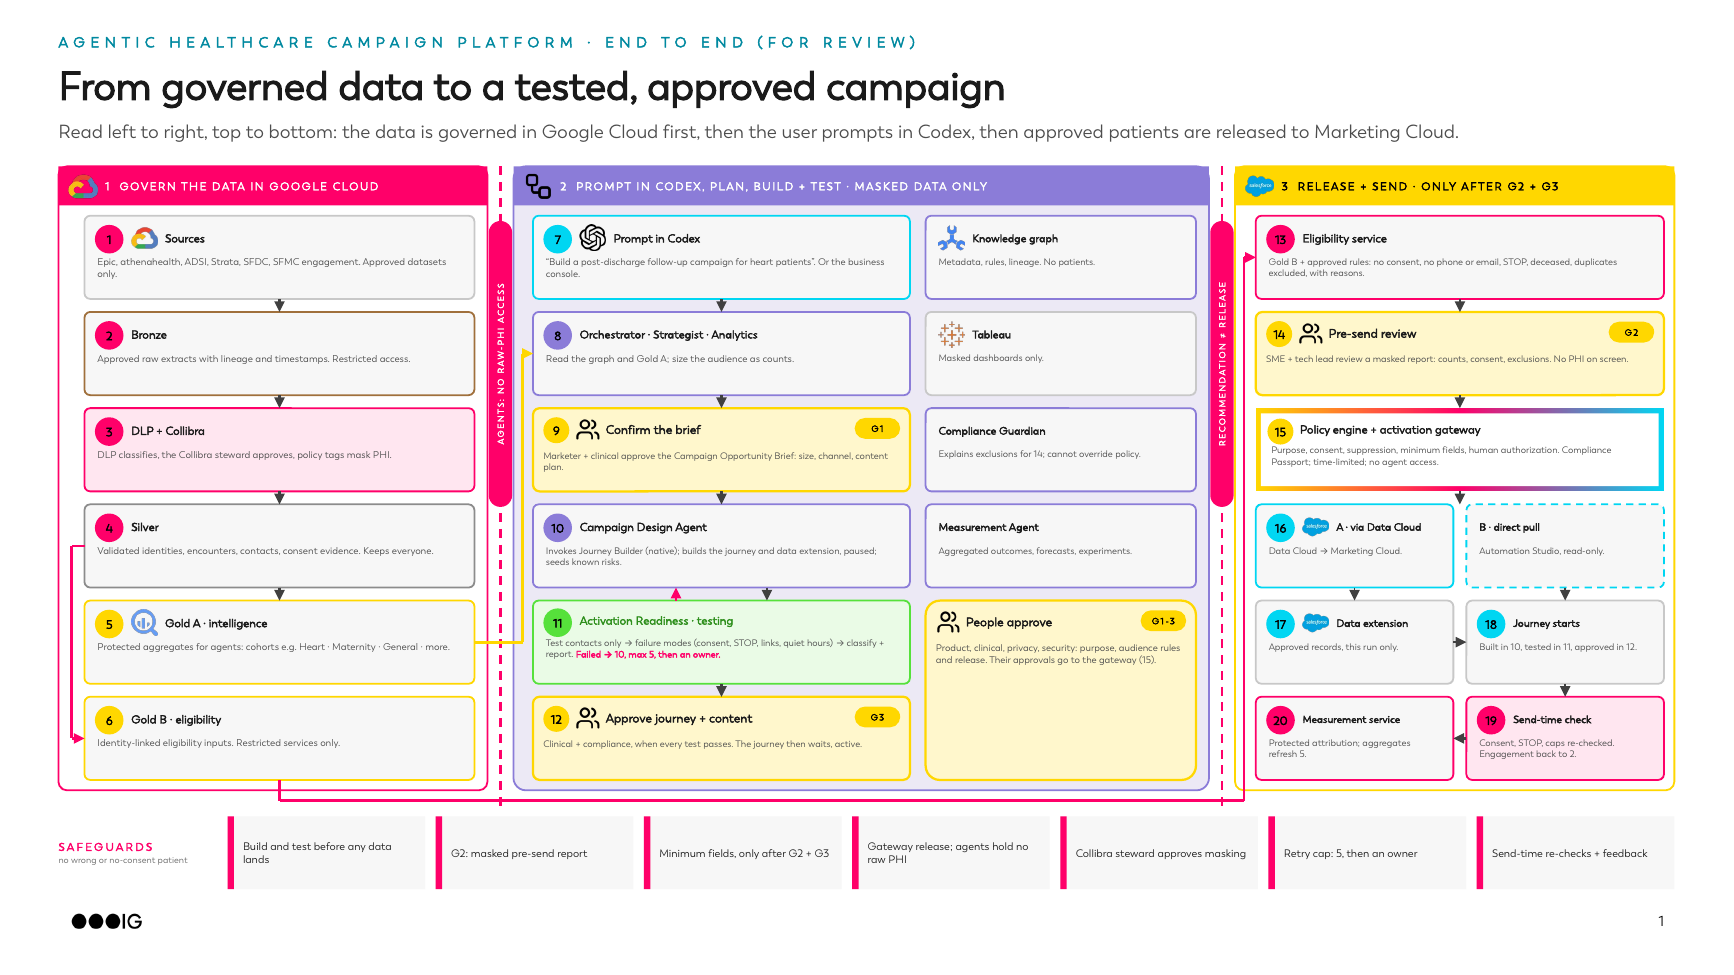
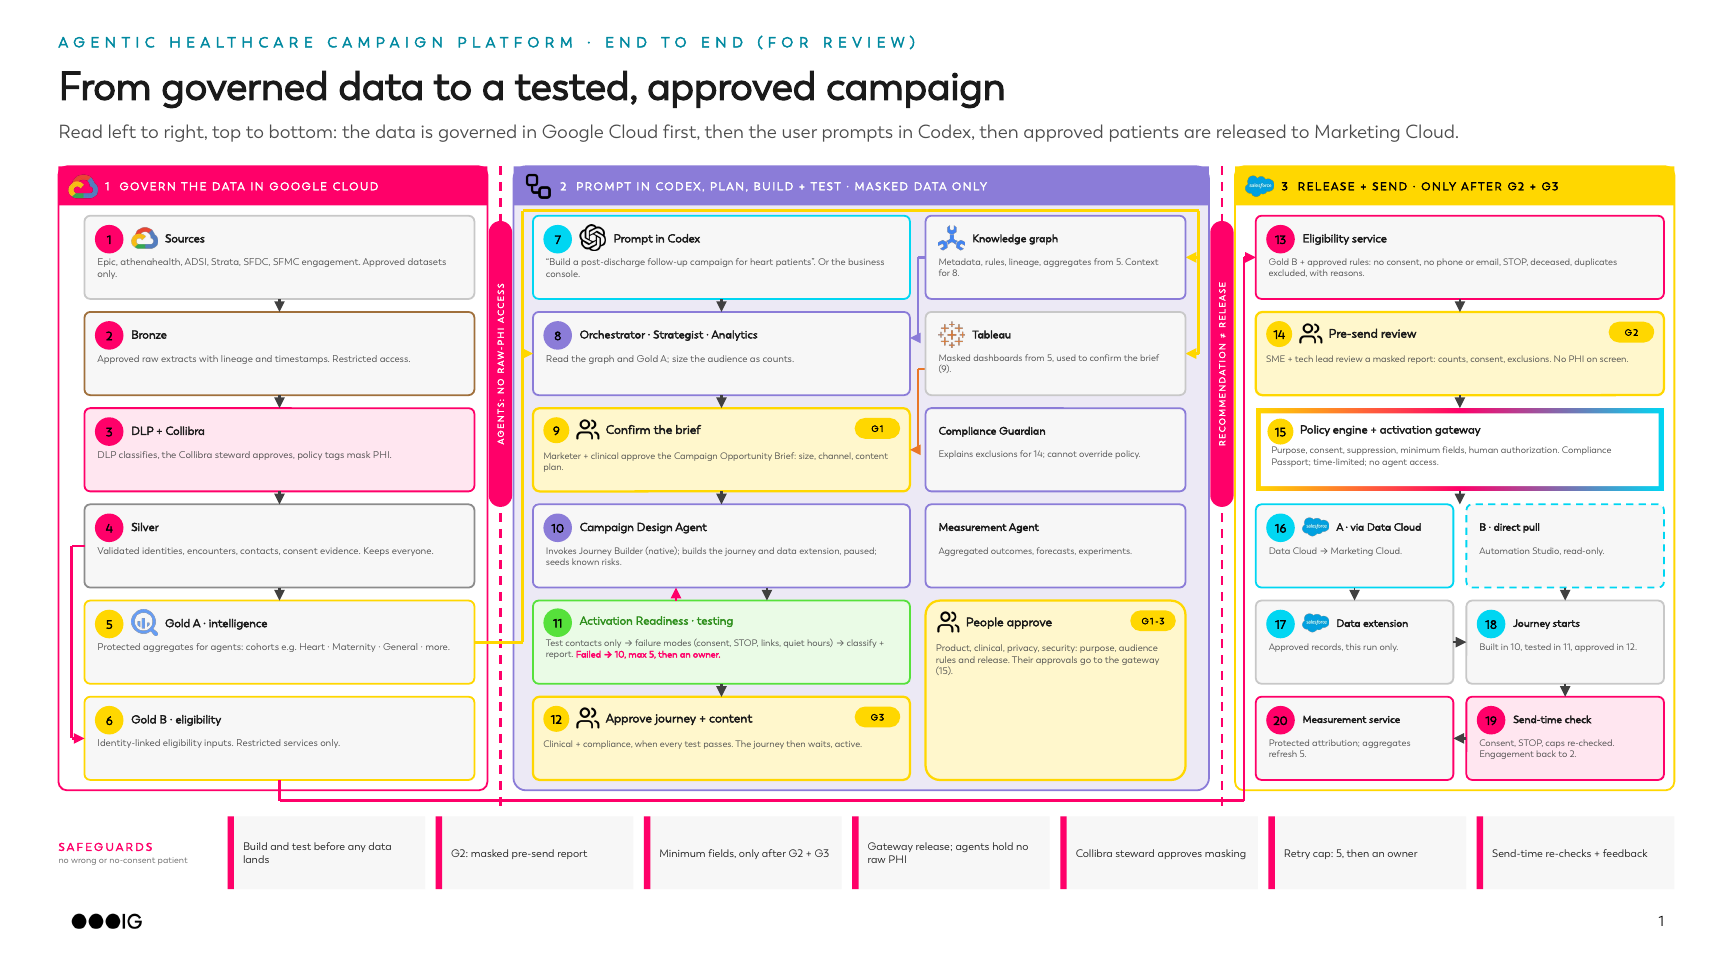
Combined review image: connect the knowledge graph and Tableau
Gold A feeds the graph and Tableau; the graph gives the agents (8) their
context; Tableau's masked dashboards support confirming the brief (9).
Both themes updated; the deck is unchanged.

Claude-Session: https://claude.ai/code/session_01Hf94kqMzSofkkrQm7kpNba

diff --git a/poc/data_harness/combined_flow.py b/poc/data_harness/combined_flow.py
@@ -73,7 +73,7 @@ def build(prs, layout):
     path(cv, [(gx, mid(3)), (0.55, mid(3)), (0.55, mid(5)), (gx, mid(5))], MAGENTA, 1.25)
     # ---------------------------------------------------------------- 2 prompt, plan, build + test
     mx, mw = 4.1, 2.9
-    sx, sw = 7.12, 2.08
+    sx, sw = 7.12, 2.0
     item(cv, mx, rows[0], mw, rh, "Prompt in Codex", "“Build a post-discharge follow-up campaign for heart "
          "patients”. Or the business console.", line=CYAN, n=7, icon="openai-white", bsize=5.3, tsize=6.4)
     item(cv, mx, rows[1], mw, rh, "Orchestrator · Strategist · Analytics", "Read the graph and Gold A; size the "
@@ -99,10 +99,17 @@ def build(prs, layout):
     cv.arrow(mx + mw / 2 - 0.35, rows[4], mx + mw / 2 - 0.35, rows[3] + rh, MAGENTA, 1.5)
     # Gold A -> agents, across the boundary
     path(cv, [(gx + gw, mid(4)), (4.02, mid(4)), (4.02, mid(1)), (mx, mid(1))], YELLOW, 1.5)
+    # Gold A also feeds the knowledge graph and Tableau (protected aggregates), along the top channel
+    ch = sx + sw + 0.1
+    path(cv, [(4.02, mid(1)), (4.02, 1.62), (ch, 1.62), (ch, mid(1)), (sx + sw, mid(1))], YELLOW, 1.5)
+    cv.arrow(ch, mid(0), sx + sw, mid(0), YELLOW, 1.5)
+    # knowledge graph -> agents (context); Tableau -> confirm the brief (masked dashboards)
+    path(cv, [(sx, mid(0)), (7.06, mid(0)), (7.06, mid(1) - 0.12), (mx + mw, mid(1) - 0.12)], VIO, 1.25)
+    path(cv, [(sx, mid(1) + 0.12), (7.06, mid(1) + 0.12), (7.06, mid(2)), (mx + mw, mid(2))], "E97627", 1.25)
     # shared context + oversight
-    item(cv, sx, rows[0], sw, rh, "Knowledge graph", "Metadata, rules, lineage. No patients.", line=VIO,
+    item(cv, sx, rows[0], sw, rh, "Knowledge graph", "Metadata, rules, lineage, aggregates from 5. Context for 8.", line=VIO,
          icon="googlecloudspanner", bsize=5.2, tsize=6.0)
-    item(cv, sx, rows[1], sw, rh, "Tableau", "Masked dashboards only.", icon="tableau", bsize=5.2, tsize=6.0)
+    item(cv, sx, rows[1], sw, rh, "Tableau", "Masked dashboards from 5, used to confirm the brief (9).", icon="tableau", bsize=5.2, tsize=6.0)
     item(cv, sx, rows[2], sw, rh, "Compliance Guardian", "Explains exclusions for 14; cannot override policy.",
          line=VIO, bsize=5.2, tsize=6.0)
     item(cv, sx, rows[3], sw, rh, "Measurement Agent", "Aggregated outcomes, forecasts, experiments.", line=VIO,
